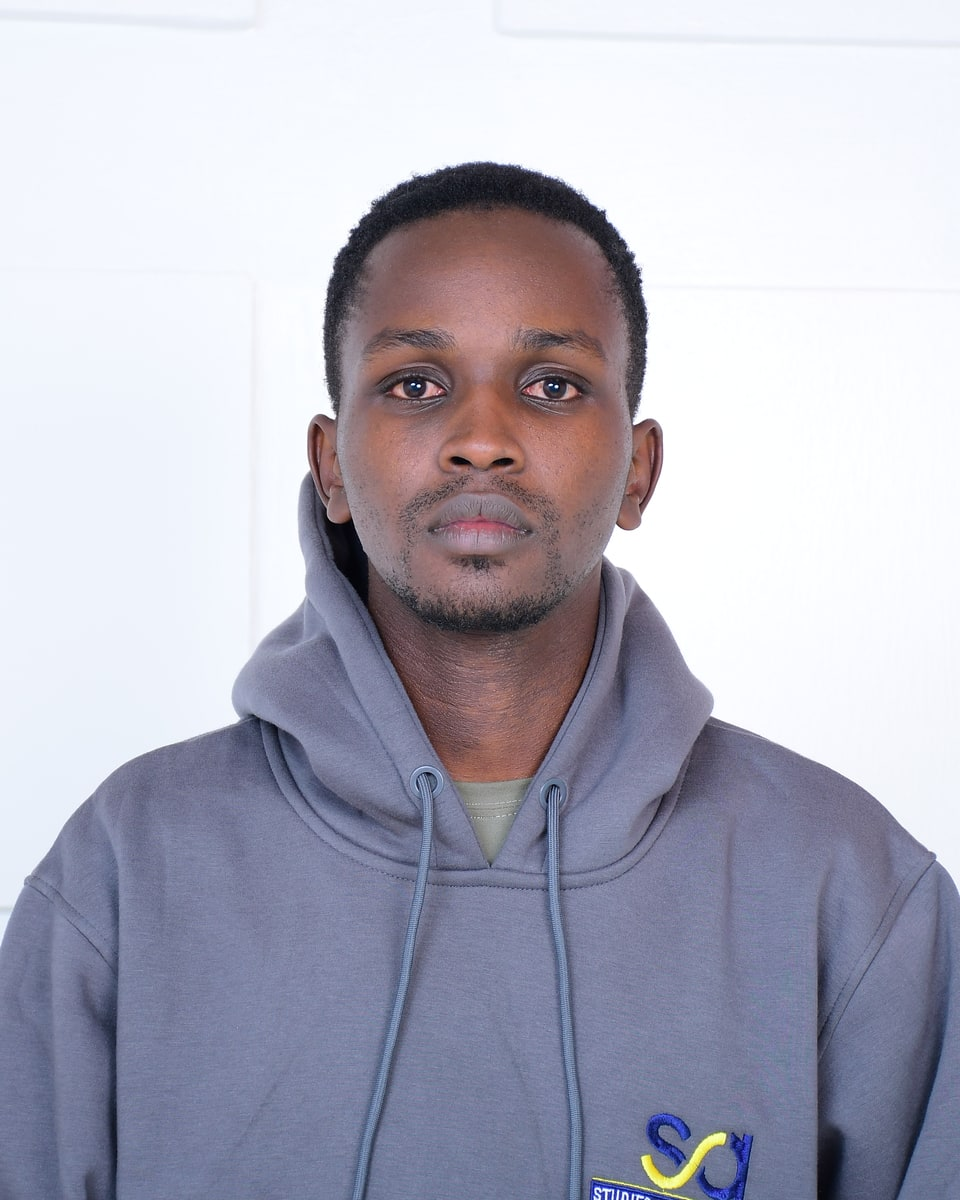
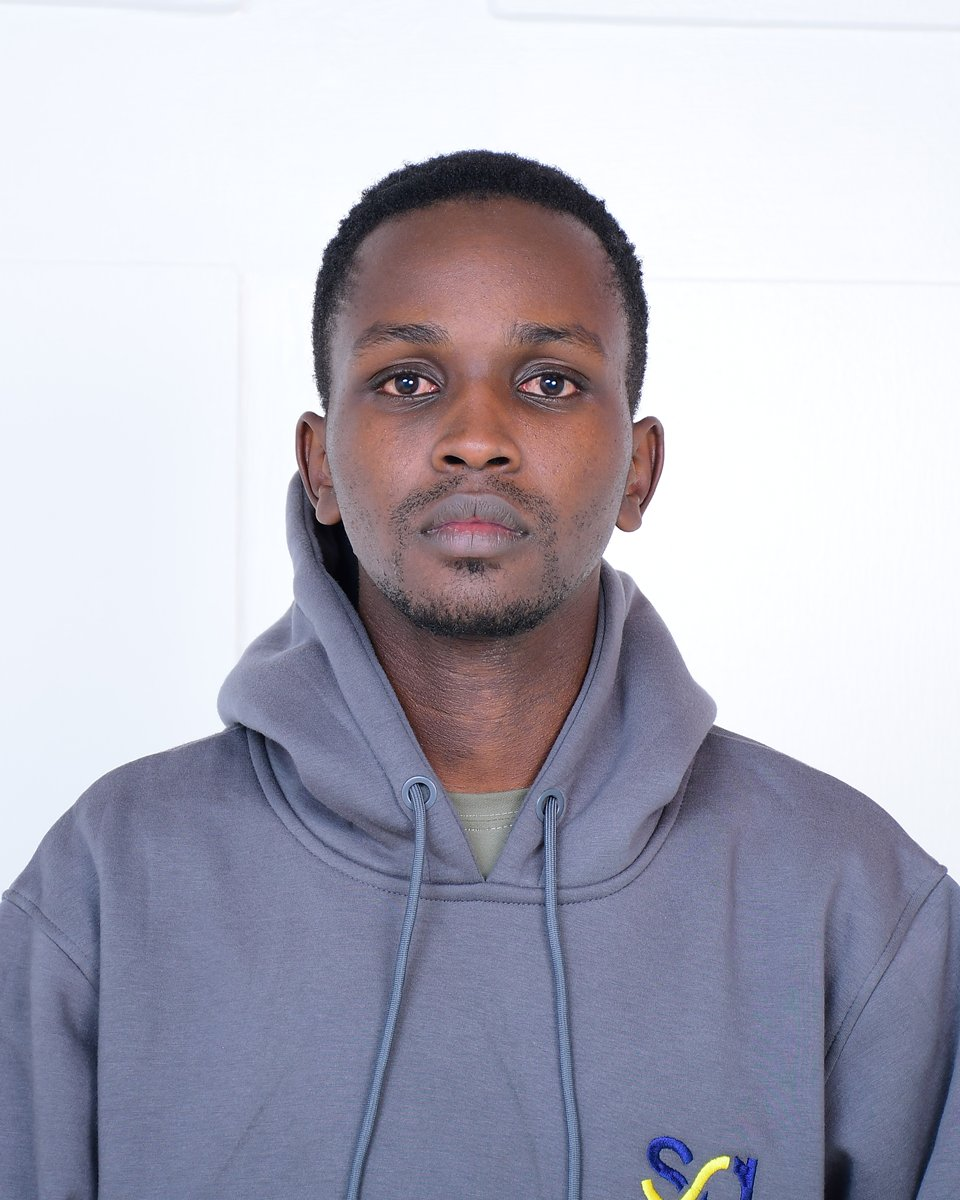
Add Canisius Yego to Team and re-crop all team photos
- Add Canisius Yego (Compliance and Verification Manager) to the team
  data, placed ahead of Dennis, with a new 4:5 portrait.
- Re-crop every team photo from the original files so each face is
  horizontally centred, head size is consistent and the eye line sits
  at about 32% from the top. Fixes faces sitting 3-6% off-centre
  (Rahab, Tina, Evelyne, Joyner, Tebby, Mourine), Collins's oversized
  crop, and the clipped tops of Tebby's and Tina's heads.
- Bias the bio modal's square photo upward (object-position: 50% 8%)
  so heads and hair aren't clipped at the top.

diff --git a/site/js/team-data.js b/site/js/team-data.js
@@ -56,6 +56,18 @@ window.TEAM_MEMBERS = [
     linkedin: '#'
   },
   {
+    id: 'canisius-yego',
+    name: 'Canisius Yego',
+    role: 'Compliance and Verification Manager',
+    shortBio: 'Canisius is the Compliance and Verification Manager at Studies and Awards Limited, making sure every application meets the required standards.',
+    fullBio: [
+      'Canisius Yego is the Compliance and Verification Manager at Studies and Awards Limited, leading the team that reviews student documentation before it’s submitted to partner institutions and visa authorities.',
+      'His focus is on accuracy and accountability: making sure every file is complete, verified and compliant, so students’ applications go out right the first time.'
+    ],
+    photo: 'assets/team/canisius-yego.jpg',
+    linkedin: '#'
+  },
+  {
     id: 'dennis',
     name: 'Dennis',
     role: 'Compliance and Verification',

diff --git a/site/css/styles.css b/site/css/styles.css
@@ -789,7 +789,7 @@ p { margin: 0; }
   color: var(--ink); border-bottom: 1px solid transparent;
 }
 .team-modal-linkedin:hover { border-bottom-color: var(--ink); }
-.team-modal-photo { width: 120px; height: 120px; border-radius: var(--radius-sm); object-fit: cover; flex-shrink: 0; }
+.team-modal-photo { width: 120px; height: 120px; border-radius: var(--radius-sm); object-fit: cover; object-position: 50% 8%; flex-shrink: 0; }
 .team-modal-bio p { font-size: 14px; line-height: 1.75; color: var(--text-prose); margin-bottom: 14px; }
 .team-modal-bio p:last-child { margin-bottom: 0; }
 
